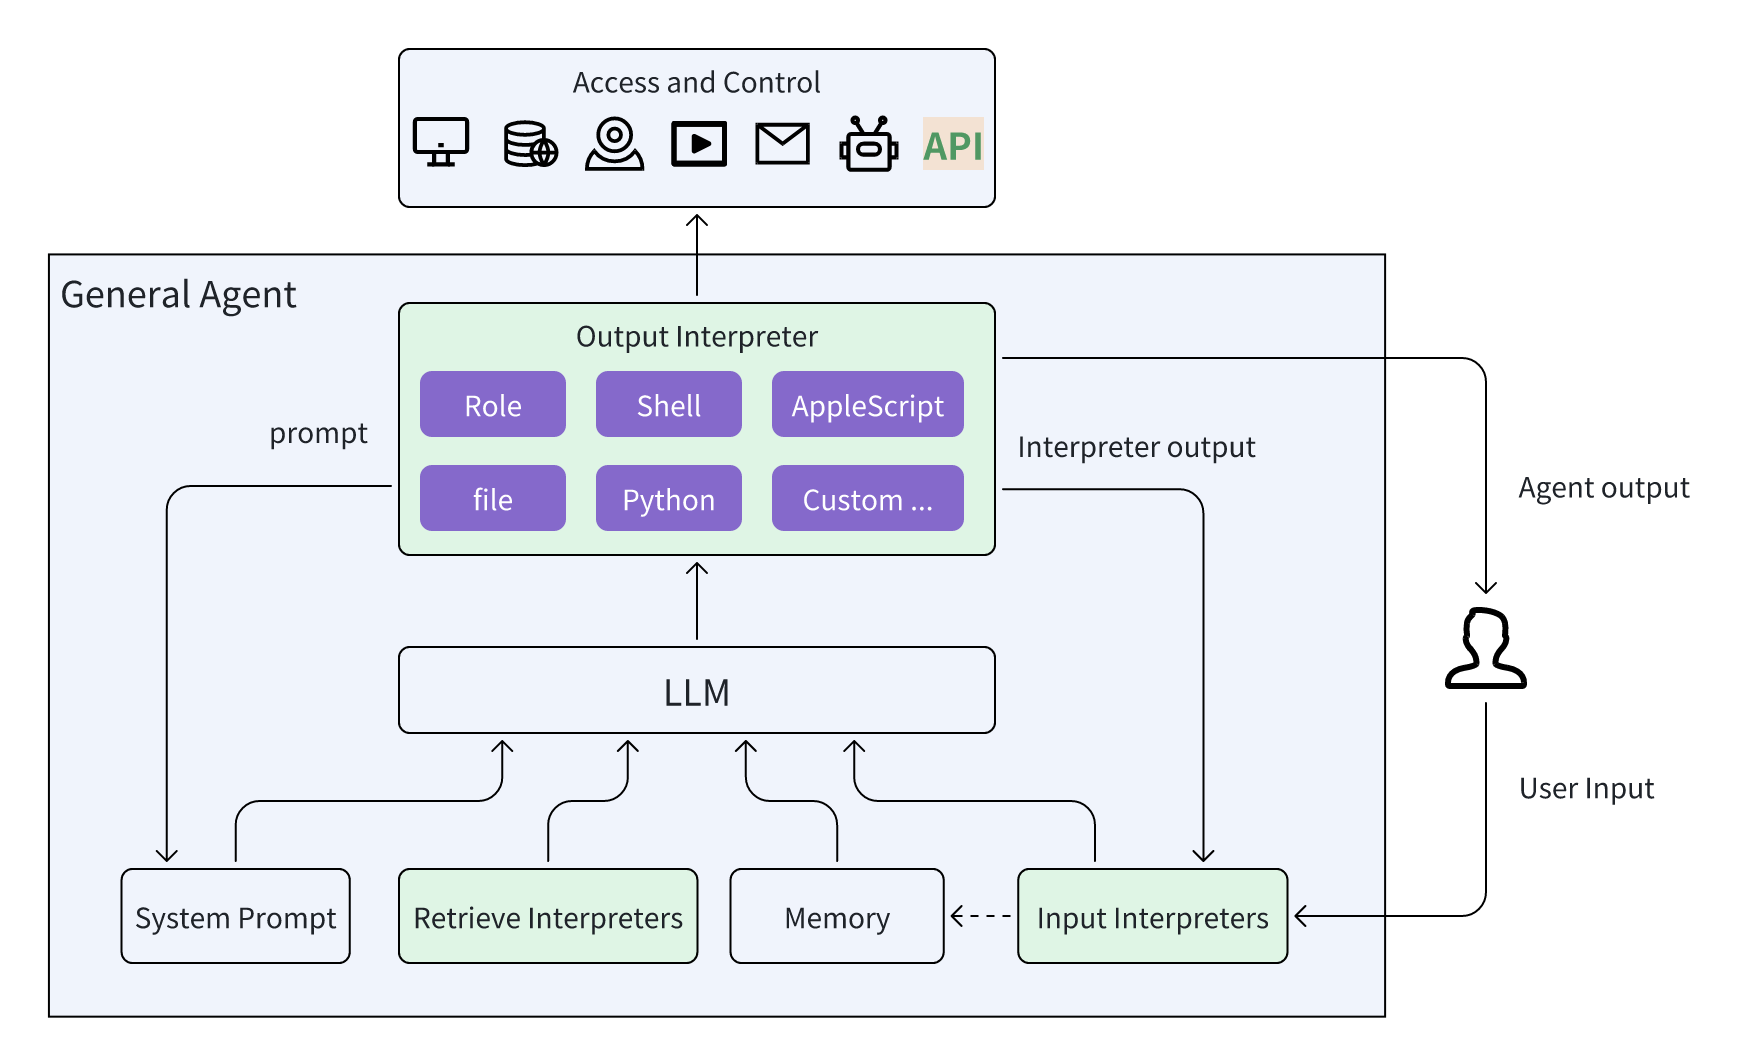
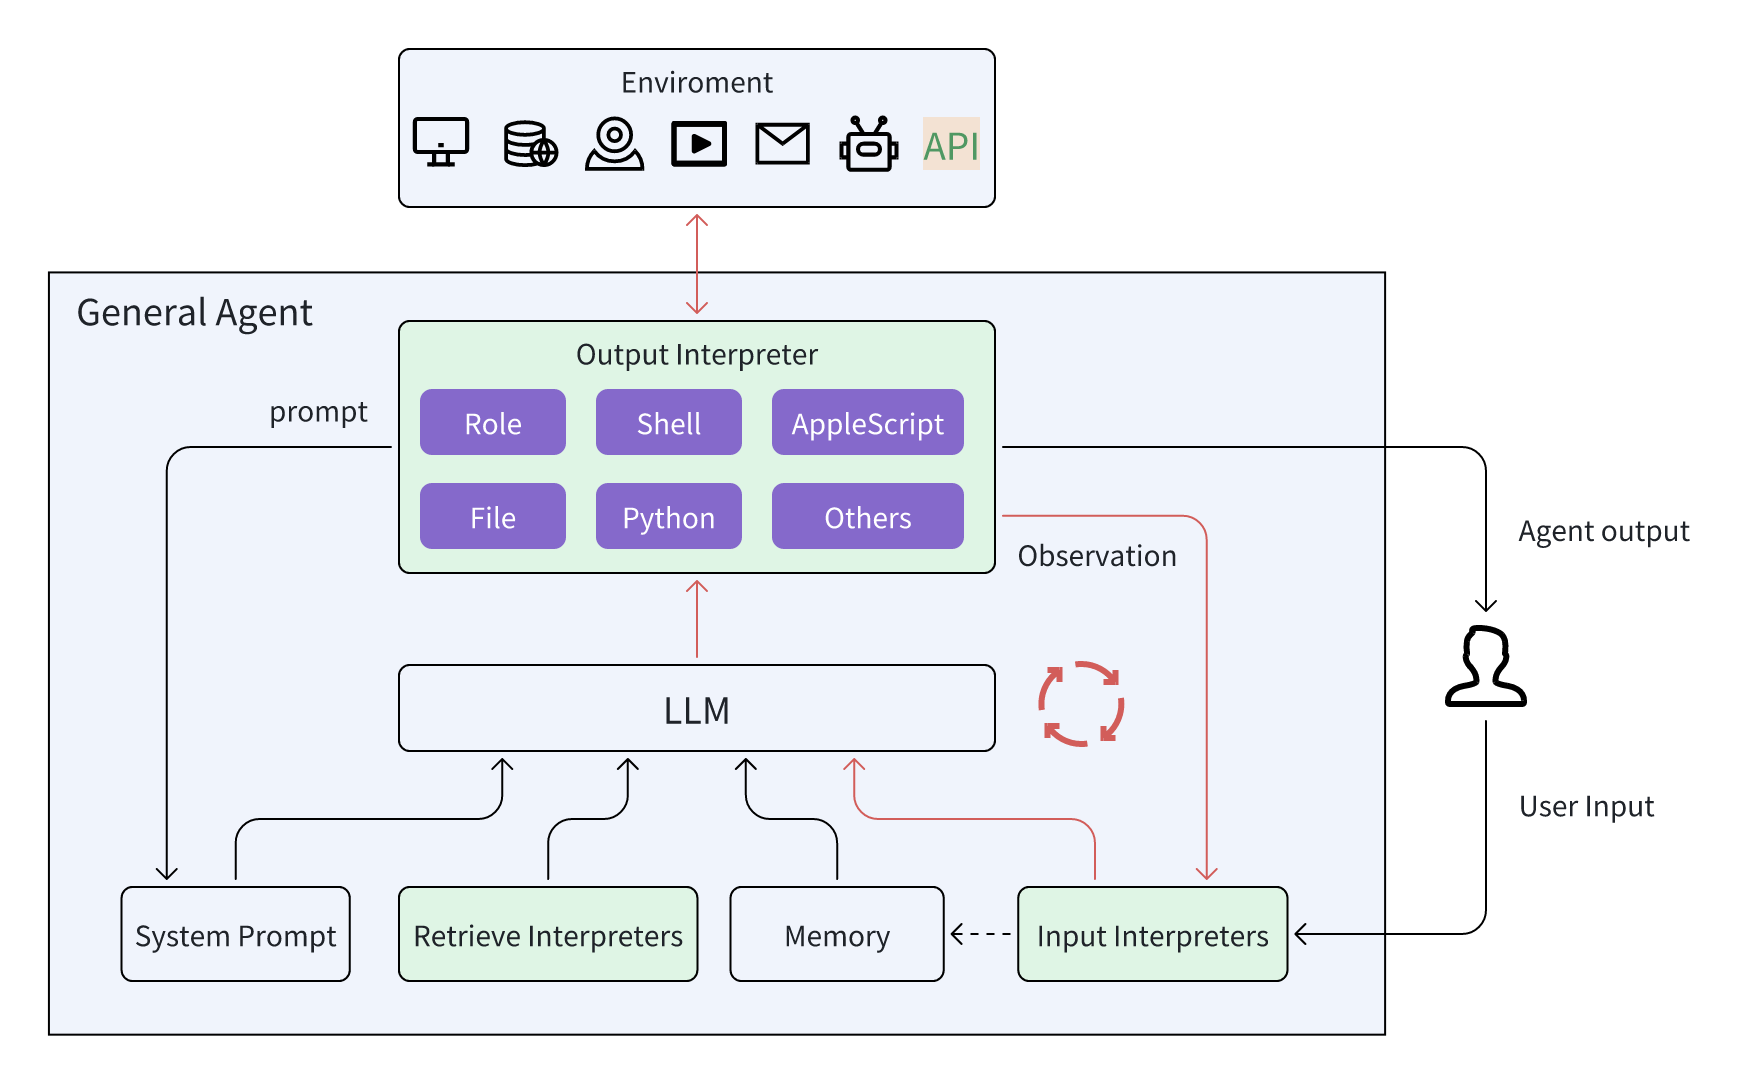
update images

diff --git a/docs/README_CN.md b/docs/README_CN.md
@@ -11,8 +11,6 @@
 
 
 
-
-
 ## 特性
 
   - 从Agent本身的视角来构建Agent
@@ -58,7 +56,15 @@ GeneralAgent
 
 ```python
 from GeneralAgent.agent import Agent
-workspace = './test'
-agent = Agent.default_agent(workspace=workspace)
-
+agent = Agent.default_agent(workspace='./test')
+while True:
+  question = input()
+	agent.run(question)
 ```
+
+
+
+## 加入我们
+
+微信扫码
+

diff --git a/README.md b/README.md
@@ -21,7 +21,7 @@
       - File Operation at line level: read、write、delete
       - Python: write python code to 解决数学、访问网络、本地文件操作等工作
       - AppleScript: Control your Mac computer
-      - Shell
+      - Shell: Control your computer
 
 ## 安装
 
